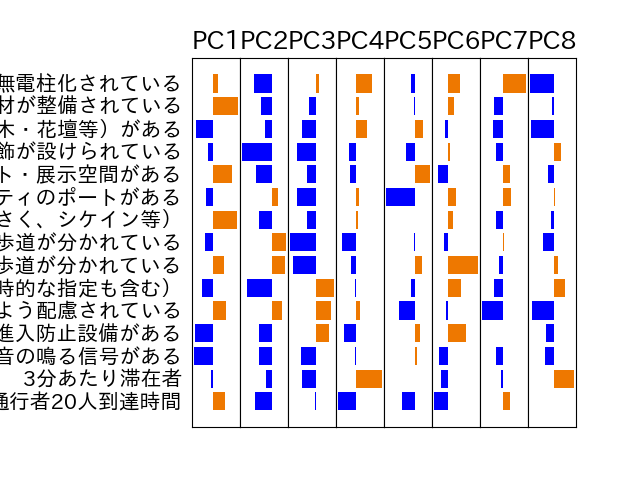
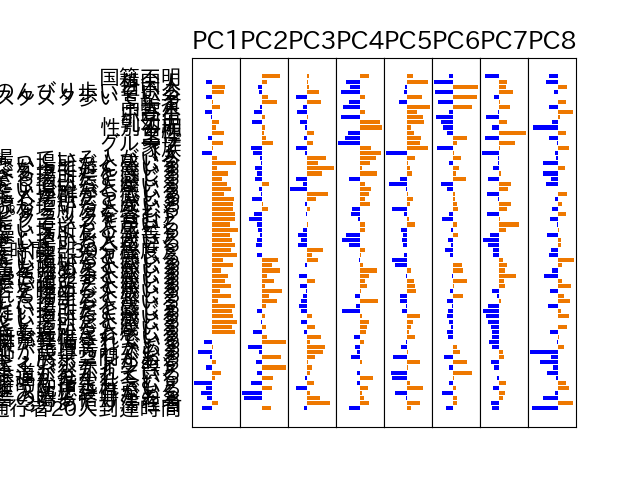
削除項目

Changed region(s): [[0.0, 0.125, 0.9062, 0.875]]

diff --git a/main.py b/main.py
@@ -79,7 +79,8 @@ def edit_data():
     df = df.drop(index="打込確認",  columns=drop_columns)
 
     # テスト削除(15変数に縛る -> 結構いい感じに表示される)
-    df = df.drop(columns=df.loc[:, "ぼーっとできる場所だと感じる":"国籍不明"].columns, axis=1)
+    #del_columns = ["ぼーっとできる場所だと感じる", "国籍不明"]
+    #df = df.drop(columns=df.loc[:, del_columns].columns, axis=1)
 
     # 経過時間->int型へ
     df["通行者20人到達時間"] = df["通行者20人到達時間"].apply(time_convert_into_int)
@@ -112,18 +113,22 @@ def pca(df:pd.DataFrame, n:int):
     #lt.ylabel("PC2")
 
     # PCA の固有値
-    print("******固有値******")
+    #print("******固有値******")
     eigenvalue = pd.DataFrame(pca.explained_variance_, index=["PC{}".format(x + 1) for x in range(0, n)])
+    """
     for index, row in eigenvalue.iterrows():
         print(f"{index}固有値：{row[0]}")
+    """
 
     # 寄与率(各主成分についてどれだけ説明できてるか -> 累積寄与率は最終的には1になる)
-    print("******寄与率******")
+    #print("******寄与率******")
     ratio = pd.DataFrame(pca.explained_variance_ratio_, index=["PC{}".format(x + 1) for x in range(0, n)])
+    """
     sum = 0
     for index, row in ratio.iterrows():
         sum += row[0]
         print(f"{index}寄与率：{row[0]} (累積寄与率：{sum})")
+    """
 
     # 負荷率(各主成分に対して、各変数がどの程度影響しているか)
     eigen_vector = pca.components_
@@ -136,7 +141,7 @@ def pca(df:pd.DataFrame, n:int):
     v_name = eigen.columns.to_numpy()
     v_name = [i[0] for i in v_name]
     v_name = np.array(v_name)
-    print(v_name)
+    #print(v_name)
 
     # excelデータへ変換
     with pd.ExcelWriter("PCA_OUTPUT.xlsx") as writer:
